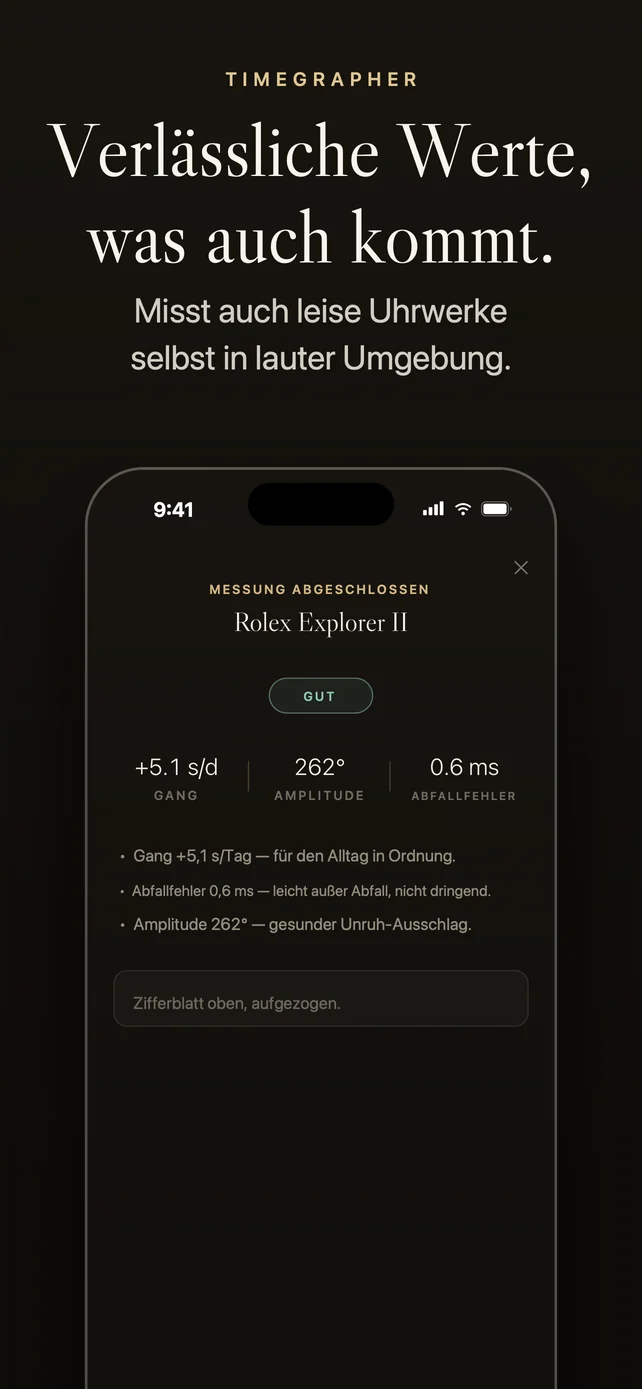
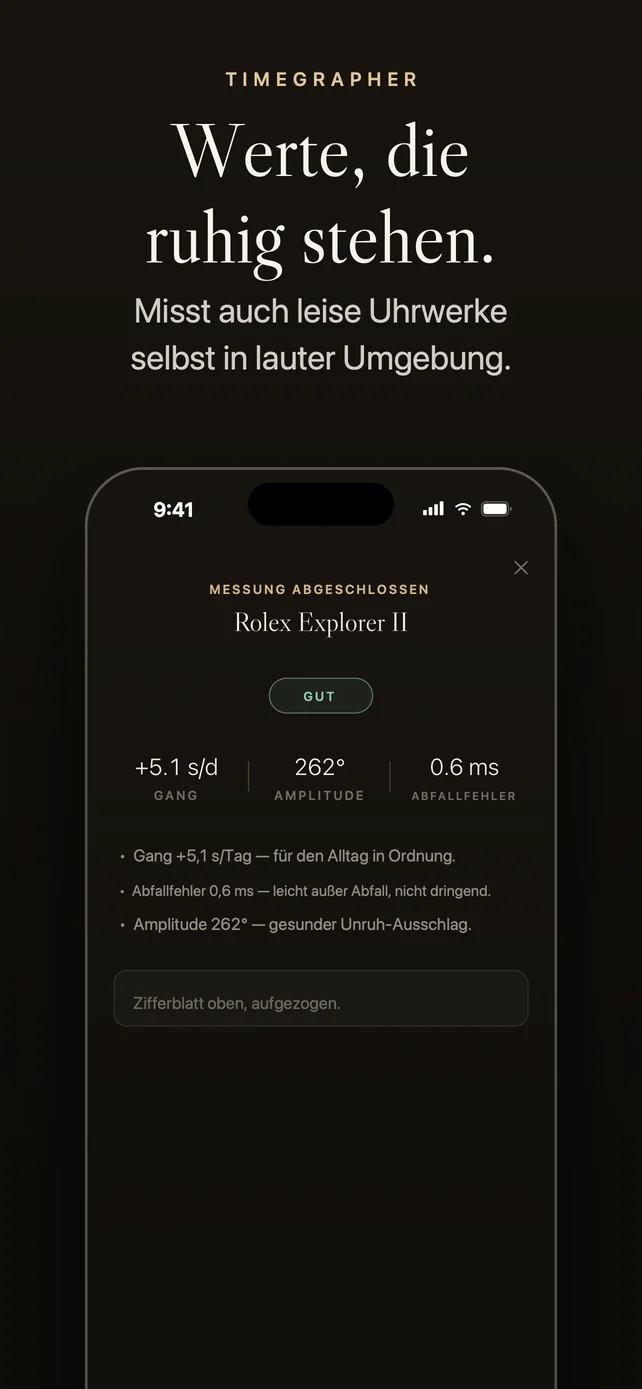
Timegrapher: screenshots with rewritten captions in four languages

Changed region(s): [[0.1246, 0.0929, 0.9034, 0.2167], [0.0935, 0.0929, 0.1246, 0.1238]]

diff --git a/timegrapher/index.html b/timegrapher/index.html
@@ -201,13 +201,13 @@
 
     <section class="gallery" data-gallery aria-label="Screenshots">
       <ul class="gallery-track" tabindex="0">
-          <li><img src="../assets/img/timegrapher/01.webp?v=d9f5d820" width="642" height="1389" alt="Your iPhone is a timing machine: rate, amplitude, and beat error in 30 seconds." loading="eager" decoding="async"></li>
-          <li><img src="../assets/img/timegrapher/02.webp?v=7351b2dd" width="642" height="1389" alt="Accurate readings, no matter what: quiet movements, even in noisy rooms." loading="eager" decoding="async"></li>
-          <li><img src="../assets/img/timegrapher/03.webp?v=2ce26e6e" width="642" height="1389" alt="Your entire collection at a glance: age, health, and value." loading="eager" decoding="async"></li>
-          <li><img src="../assets/img/timegrapher/04.webp?v=c94af4b8" width="642" height="1389" alt="See the drift before it matters, and know when to service your watch." loading="lazy" decoding="async"></li>
-          <li><img src="../assets/img/timegrapher/05.webp?v=b0f2a9f8" width="642" height="1389" alt="Know what it&#x27;s worth: the Chrono24 median for your exact reference." loading="lazy" decoding="async"></li>
-          <li><img src="../assets/img/timegrapher/06.webp?v=9124d04d" width="642" height="1389" alt="Is your watch magnetized? Checked in ten seconds." loading="lazy" decoding="async"></li>
-          <li><img src="../assets/img/timegrapher/07.webp?v=328acf53" width="642" height="1389" alt="Accuracy over a day of wear: two photos, a day apart, show how it ran on your wrist." loading="lazy" decoding="async"></li>
+          <li><img src="../assets/img/timegrapher/01.webp?v=2fa21e0c" width="642" height="1389" alt="Your iPhone is a timing machine: rate, amplitude, and beat error in 30 seconds." loading="eager" decoding="async"></li>
+          <li><img src="../assets/img/timegrapher/02.webp?v=4e19a284" width="642" height="1389" alt="Readings that hold steady: quiet movements, even in noisy rooms." loading="eager" decoding="async"></li>
+          <li><img src="../assets/img/timegrapher/03.webp?v=9940838a" width="642" height="1389" alt="Your entire collection at a glance: the age, health and value of every watch, kept on your iPhone." loading="eager" decoding="async"></li>
+          <li><img src="../assets/img/timegrapher/04.webp?v=12948df7" width="642" height="1389" alt="See the drift before it matters, and know when to service your watch." loading="lazy" decoding="async"></li>
+          <li><img src="../assets/img/timegrapher/05.webp?v=21862cde" width="642" height="1389" alt="Know what it&#x27;s worth: the Chrono24 median for your exact reference." loading="lazy" decoding="async"></li>
+          <li><img src="../assets/img/timegrapher/06.webp?v=edc814e5" width="642" height="1389" alt="Is your watch magnetized? Checked in ten seconds." loading="lazy" decoding="async"></li>
+          <li><img src="../assets/img/timegrapher/07.webp?v=c2c13692" width="642" height="1389" alt="Accuracy over a day of wear: two photos, a day apart, show how it ran on your wrist." loading="lazy" decoding="async"></li>
       </ul>
       <div class="gallery-controls">
         <div class="gallery-paddles">

diff --git a/timegrapher/fr/index.html b/timegrapher/fr/index.html
@@ -200,9 +200,9 @@
 
     <section class="gallery" data-gallery aria-label="Captures d&#x27;écran">
       <ul class="gallery-track" tabindex="0">
-          <li><img src="../../assets/img/timegrapher/fr/01.webp?v=c5f38c28" width="642" height="1389" alt="Votre iPhone est un chronocomparateur : marche, amplitude et erreur de repère en 30 secondes." loading="eager" decoding="async"></li>
-          <li><img src="../../assets/img/timegrapher/fr/02.webp?v=dd6d5bad" width="642" height="1389" alt="Des valeurs qui restent stables : même les mouvements discrets, même dans le bruit." loading="eager" decoding="async"></li>
-          <li><img src="../../assets/img/timegrapher/fr/03.webp?v=a34532a9" width="642" height="1389" alt="Votre collection, un seul établi : âge, état et valeur de chaque montre." loading="eager" decoding="async"></li>
+          <li><img src="../../assets/img/timegrapher/fr/01.webp?v=081006ff" width="642" height="1389" alt="Votre iPhone est un chronocomparateur : marche, amplitude et erreur de repère en 30 secondes." loading="eager" decoding="async"></li>
+          <li><img src="../../assets/img/timegrapher/fr/02.webp?v=2ef99706" width="642" height="1389" alt="Des valeurs qui restent stables : même les mouvements discrets, même dans le bruit." loading="eager" decoding="async"></li>
+          <li><img src="../../assets/img/timegrapher/fr/03.webp?v=1b8eb236" width="642" height="1389" alt="Votre collection, un seul établi : âge, état et valeur de chaque montre." loading="eager" decoding="async"></li>
           <li><img src="../../assets/img/timegrapher/fr/04.webp?v=3375023e" width="642" height="1389" alt="Voir la dérive avant qu&#x27;elle compte : chaque mesure conservée et tracée." loading="lazy" decoding="async"></li>
           <li><img src="../../assets/img/timegrapher/fr/05.webp?v=e1015563" width="642" height="1389" alt="Savoir ce qu&#x27;elle vaut : la médiane Chrono24 pour votre référence exacte." loading="lazy" decoding="async"></li>
           <li><img src="../../assets/img/timegrapher/fr/06.webp?v=829ac912" width="642" height="1389" alt="Votre montre est-elle aimantée ? Contrôlé en dix secondes." loading="lazy" decoding="async"></li>

diff --git a/timegrapher/de/index.html b/timegrapher/de/index.html
@@ -200,9 +200,9 @@
 
     <section class="gallery" data-gallery aria-label="Bildschirmfotos">
       <ul class="gallery-track" tabindex="0">
-          <li><img src="../../assets/img/timegrapher/de/01.webp?v=574246b3" width="642" height="1389" alt="Ihr iPhone ist eine Zeitwaage: Gangabweichung, Amplitude und Abfallfehler in 30 Sekunden." loading="eager" decoding="async"></li>
-          <li><img src="../../assets/img/timegrapher/de/02.webp?v=858e0dd2" width="642" height="1389" alt="Werte, die ruhig stehen: auch leise Uhrwerke, auch in lauten Räumen." loading="eager" decoding="async"></li>
-          <li><img src="../../assets/img/timegrapher/de/03.webp?v=63c62c7e" width="642" height="1389" alt="Ihre Sammlung an einem Ort: Alter, Zustand und Wert jeder Uhr." loading="eager" decoding="async"></li>
+          <li><img src="../../assets/img/timegrapher/de/01.webp?v=9cde82c8" width="642" height="1389" alt="Ihr iPhone ist eine Zeitwaage: Gangabweichung, Amplitude und Abfallfehler in 30 Sekunden." loading="eager" decoding="async"></li>
+          <li><img src="../../assets/img/timegrapher/de/02.webp?v=8c849108" width="642" height="1389" alt="Werte, die ruhig stehen: auch leise Uhrwerke, auch in lauten Räumen." loading="eager" decoding="async"></li>
+          <li><img src="../../assets/img/timegrapher/de/03.webp?v=51d8320e" width="642" height="1389" alt="Ihre Sammlung an einem Ort: Alter, Zustand und Wert jeder Uhr." loading="eager" decoding="async"></li>
           <li><img src="../../assets/img/timegrapher/de/04.webp?v=4fb95b03" width="642" height="1389" alt="Die Drift sehen, bevor sie zählt: jede Messung gespeichert, als Diagramm." loading="lazy" decoding="async"></li>
           <li><img src="../../assets/img/timegrapher/de/05.webp?v=0d677f10" width="642" height="1389" alt="Wissen, was sie wert ist: der Chrono24-Median für Ihre genaue Referenz." loading="lazy" decoding="async"></li>
           <li><img src="../../assets/img/timegrapher/de/06.webp?v=7804f2cb" width="642" height="1389" alt="Ist Ihre Uhr magnetisiert? In zehn Sekunden geprüft." loading="lazy" decoding="async"></li>

diff --git a/timegrapher/ja/index.html b/timegrapher/ja/index.html
@@ -201,8 +201,8 @@
     <section class="gallery" data-gallery aria-label="スクリーンショット">
       <ul class="gallery-track" tabindex="0">
           <li><img src="../../assets/img/timegrapher/ja/01.webp?v=7fba3273" width="642" height="1389" alt="iPhoneがタイムグラファーに。日差・振り角・片振りを30秒で計測。" loading="eager" decoding="async"></li>
-          <li><img src="../../assets/img/timegrapher/ja/02.webp?v=e1d190ea" width="642" height="1389" alt="値がぶれません。静かなムーブメントも、騒がしい部屋でも。" loading="eager" decoding="async"></li>
-          <li><img src="../../assets/img/timegrapher/ja/03.webp?v=1123af31" width="642" height="1389" alt="コレクションをひとつの机に。各時計の製造年・状態・価値。" loading="eager" decoding="async"></li>
+          <li><img src="../../assets/img/timegrapher/ja/02.webp?v=4fad84f6" width="642" height="1389" alt="値がぶれません。静かなムーブメントも、騒がしい部屋でも。" loading="eager" decoding="async"></li>
+          <li><img src="../../assets/img/timegrapher/ja/03.webp?v=4e76849e" width="642" height="1389" alt="コレクションをひとつの机に。各時計の製造年・状態・価値。" loading="eager" decoding="async"></li>
           <li><img src="../../assets/img/timegrapher/ja/04.webp?v=2282d615" width="642" height="1389" alt="ずれに気づく、手遅れになる前に。すべての計測をグラフで。" loading="lazy" decoding="async"></li>
           <li><img src="../../assets/img/timegrapher/ja/05.webp?v=a52f5aff" width="642" height="1389" alt="価値を把握する。リファレンス単位のChrono24中央値。" loading="lazy" decoding="async"></li>
           <li><img src="../../assets/img/timegrapher/ja/06.webp?v=5c1bd23c" width="642" height="1389" alt="磁気を帯びていませんか？10秒で検査。" loading="lazy" decoding="async"></li>

diff --git a/index.html b/index.html
@@ -187,7 +187,7 @@
           <a class="pill" href="timegrapher/">Learn more</a>
           <a class="pill pill-outline" href="https://apps.apple.com/app/id6788081843">App Store</a>
         </p>
-        <div class="tile-shots"><img src="assets/img/timegrapher/01.webp?v=d9f5d820" width="642" height="1389" alt="" loading="lazy" decoding="async"><img src="assets/img/timegrapher/03.webp?v=2ce26e6e" width="642" height="1389" alt="" loading="lazy" decoding="async"><img src="assets/img/timegrapher/04.webp?v=c94af4b8" width="642" height="1389" alt="" loading="lazy" decoding="async"></div>
+        <div class="tile-shots"><img src="assets/img/timegrapher/01.webp?v=2fa21e0c" width="642" height="1389" alt="" loading="lazy" decoding="async"><img src="assets/img/timegrapher/03.webp?v=9940838a" width="642" height="1389" alt="" loading="lazy" decoding="async"><img src="assets/img/timegrapher/04.webp?v=12948df7" width="642" height="1389" alt="" loading="lazy" decoding="async"></div>
       </article>
       <article class="tile">
         <img class="app-icon" src="assets/img/unfollowers/icon.png?v=ab7cf88a" width="256" height="256" alt="">

diff --git a/build.py b/build.py
@@ -300,8 +300,8 @@ APPS = [
         "category": "UtilitiesApplication",   # schema.org applicationCategory
         "shots": [
             "Your iPhone is a timing machine: rate, amplitude, and beat error in 30 seconds.",
-            "Accurate readings, no matter what: quiet movements, even in noisy rooms.",
-            "Your entire collection at a glance: age, health, and value.",
+            "Readings that hold steady: quiet movements, even in noisy rooms.",
+            "Your entire collection at a glance: the age, health and value of every watch, kept on your iPhone.",
             "See the drift before it matters, and know when to service your watch.",
             "Know what it's worth: the Chrono24 median for your exact reference.",
             "Is your watch magnetized? Checked in ten seconds.",
